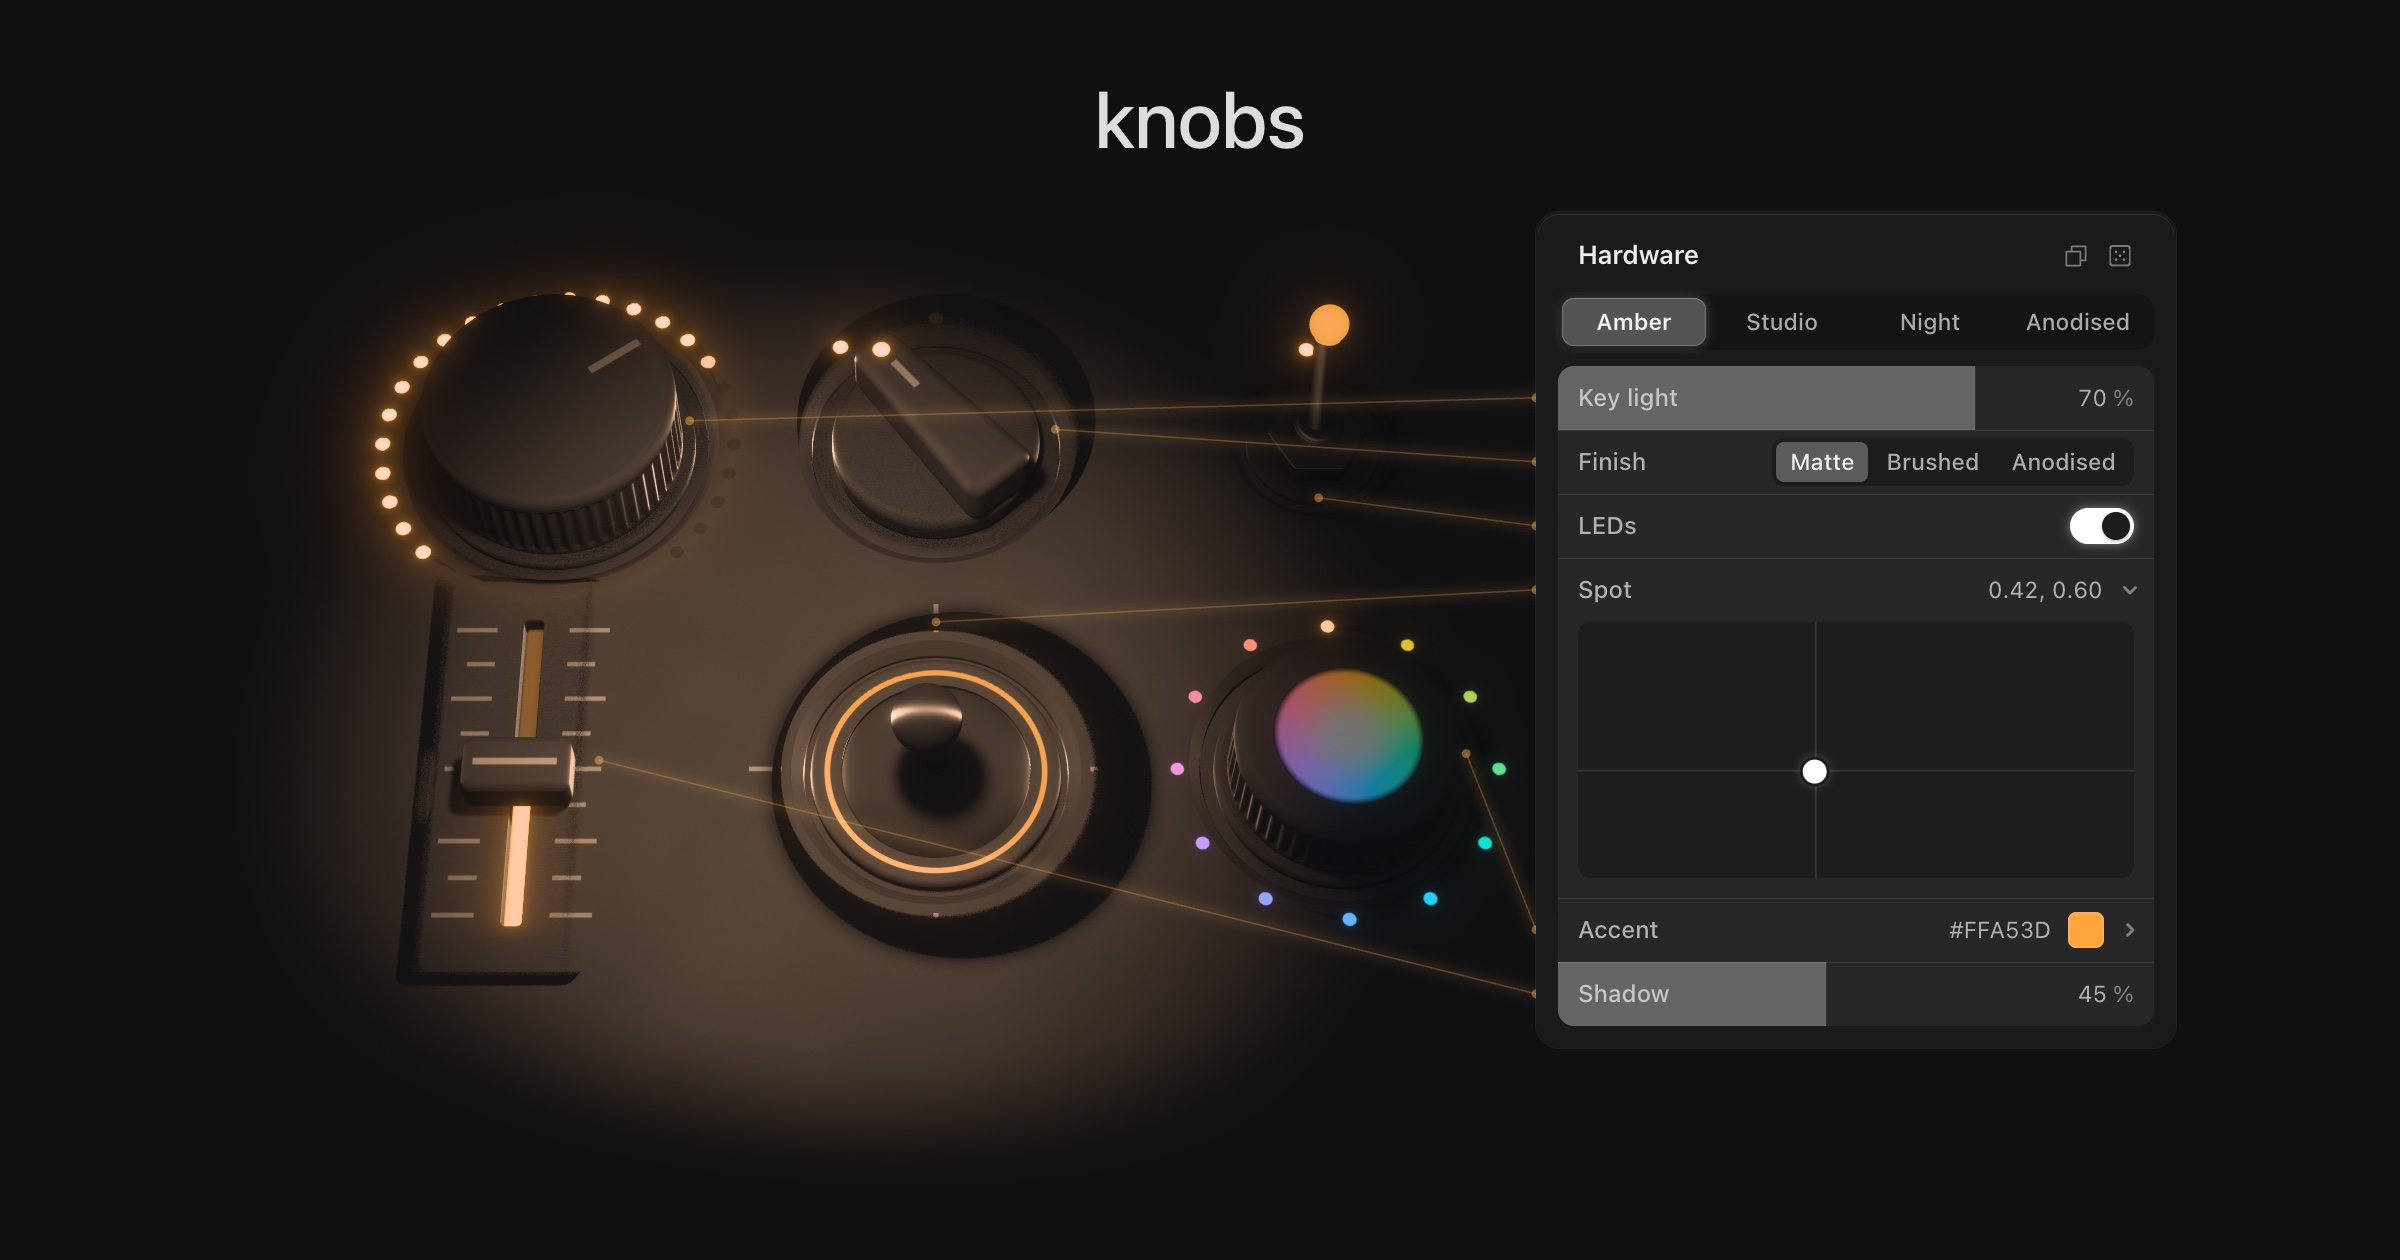
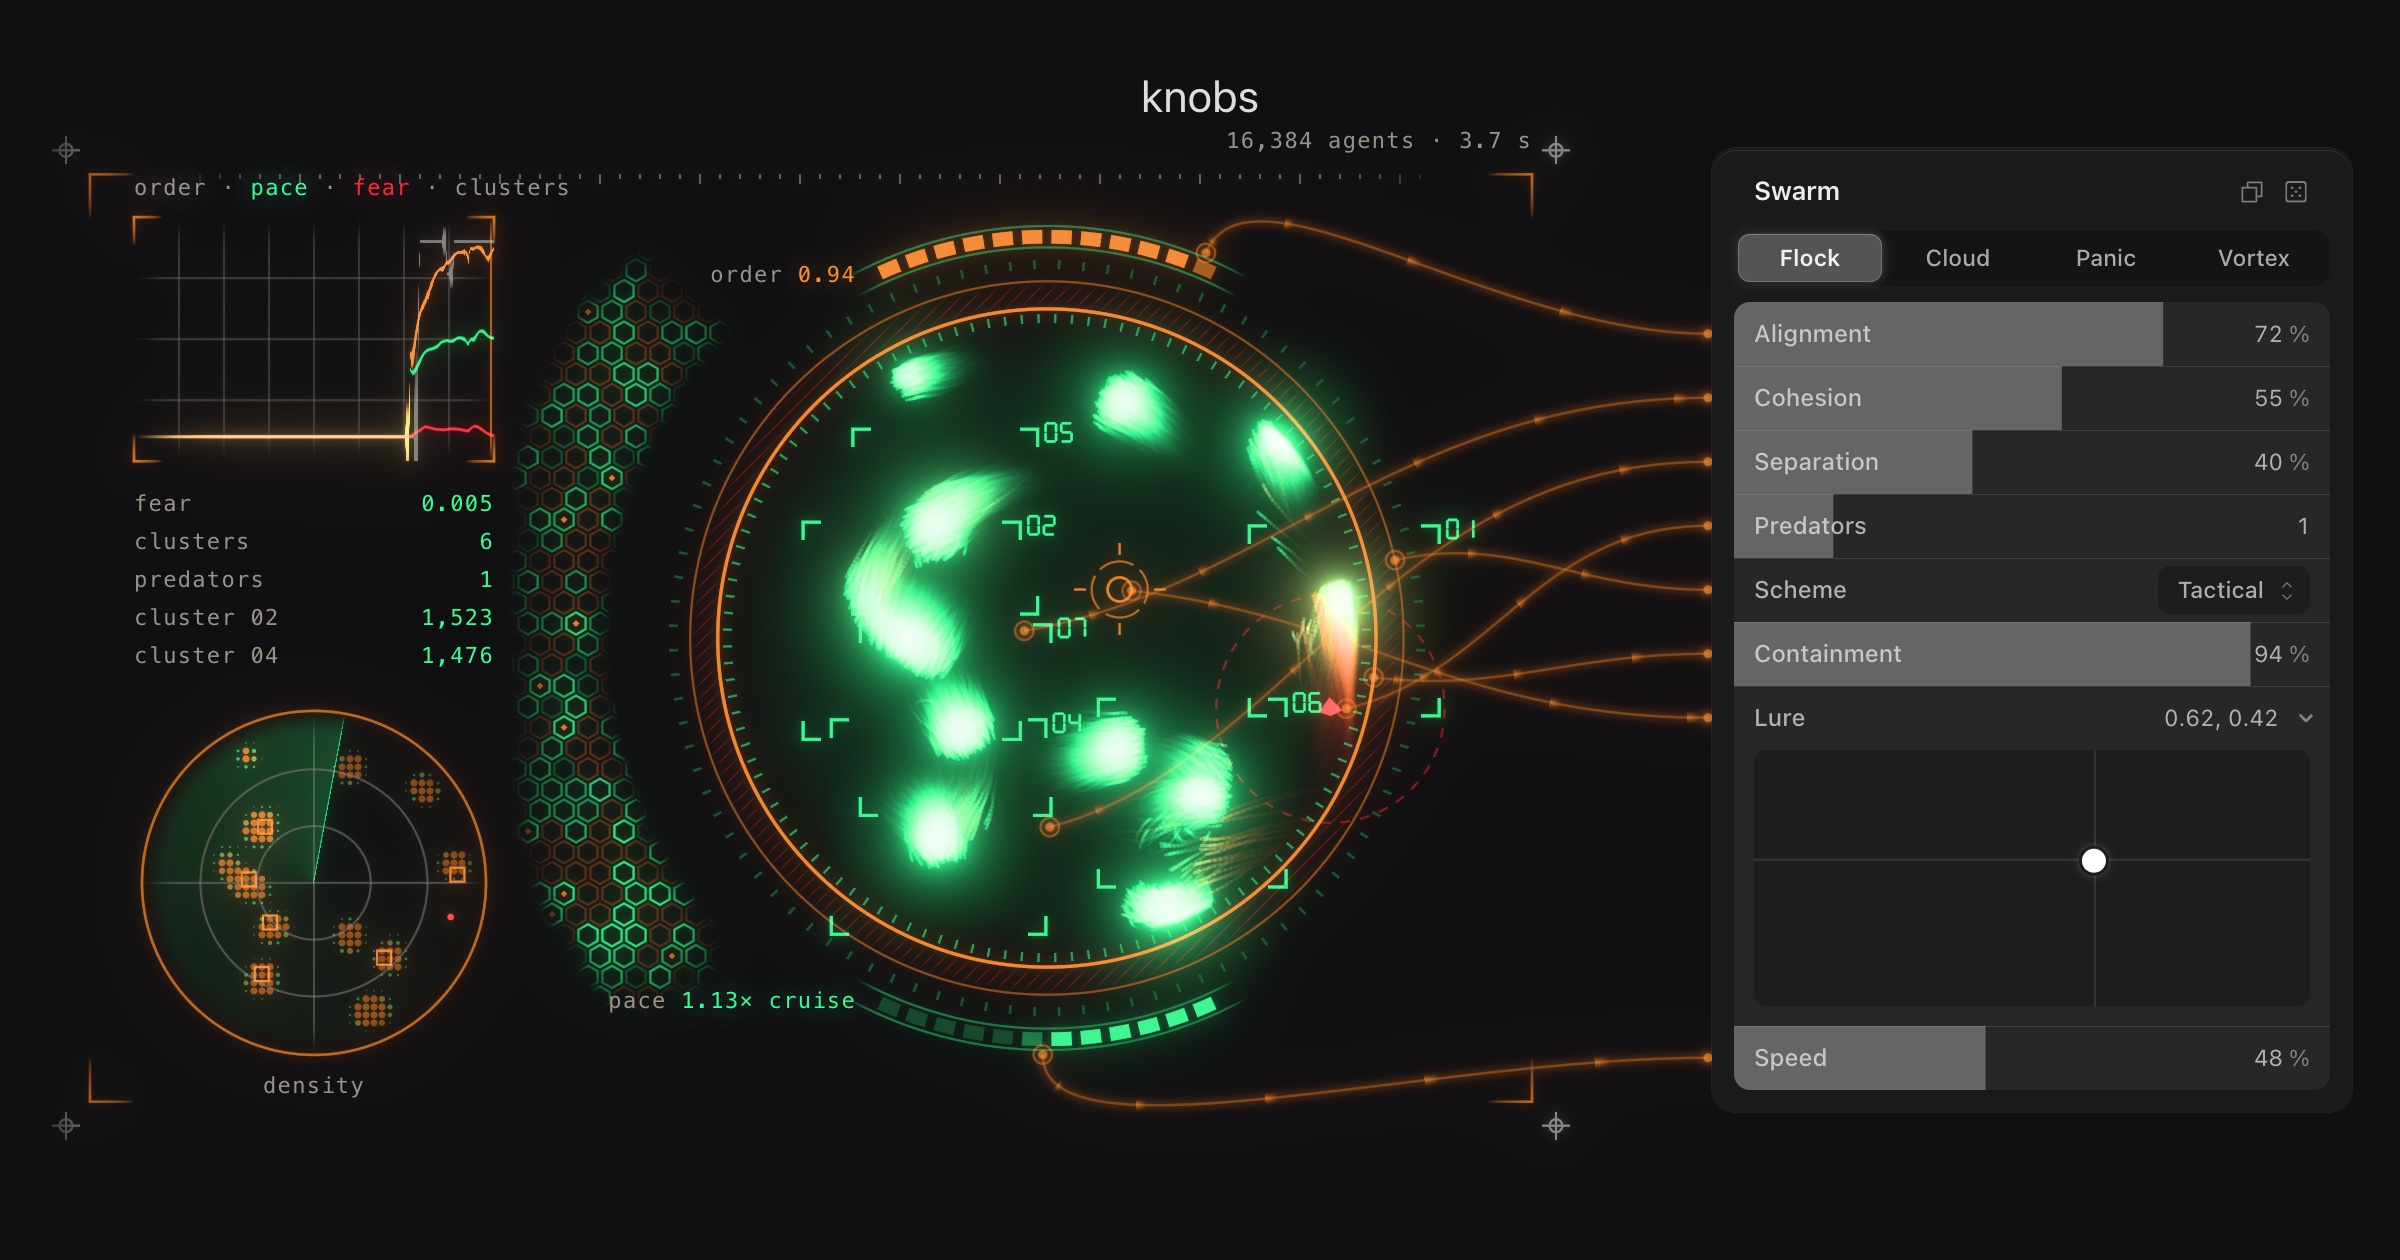
Open Graph image: the Swarm hero

diff --git a/site/index.html b/site/index.html
@@ -11,7 +11,7 @@
     <meta property="og:image" content="https://knobs.kitlangton.com/og.jpg" />
     <meta property="og:image:width" content="2400" />
     <meta property="og:image:height" content="1260" />
-    <meta property="og:image:alt" content="A dark desk of glowing knobs, a fader and a joystick, wired to a knobs panel" />
+    <meta property="og:image:alt" content="A glowing green swarm in a containment ring, read by a tactical display and wired to a knobs panel" />
     <meta name="twitter:card" content="summary_large_image" />
     <meta name="twitter:image" content="https://knobs.kitlangton.com/og.jpg" />
     <meta name="color-scheme" content="light dark" />

diff --git a/examples/controls.html b/examples/controls.html
@@ -12,7 +12,7 @@
     <meta property="og:image" content="https://knobs.kitlangton.com/og.jpg" />
     <meta property="og:image:width" content="2400" />
     <meta property="og:image:height" content="1260" />
-    <meta property="og:image:alt" content="A dark desk of glowing knobs, a fader and a joystick, wired to a knobs panel" />
+    <meta property="og:image:alt" content="A glowing green swarm in a containment ring, read by a tactical display and wired to a knobs panel" />
     <meta name="twitter:card" content="summary_large_image" />
     <meta name="twitter:image" content="https://knobs.kitlangton.com/og.jpg" />
     <script>
